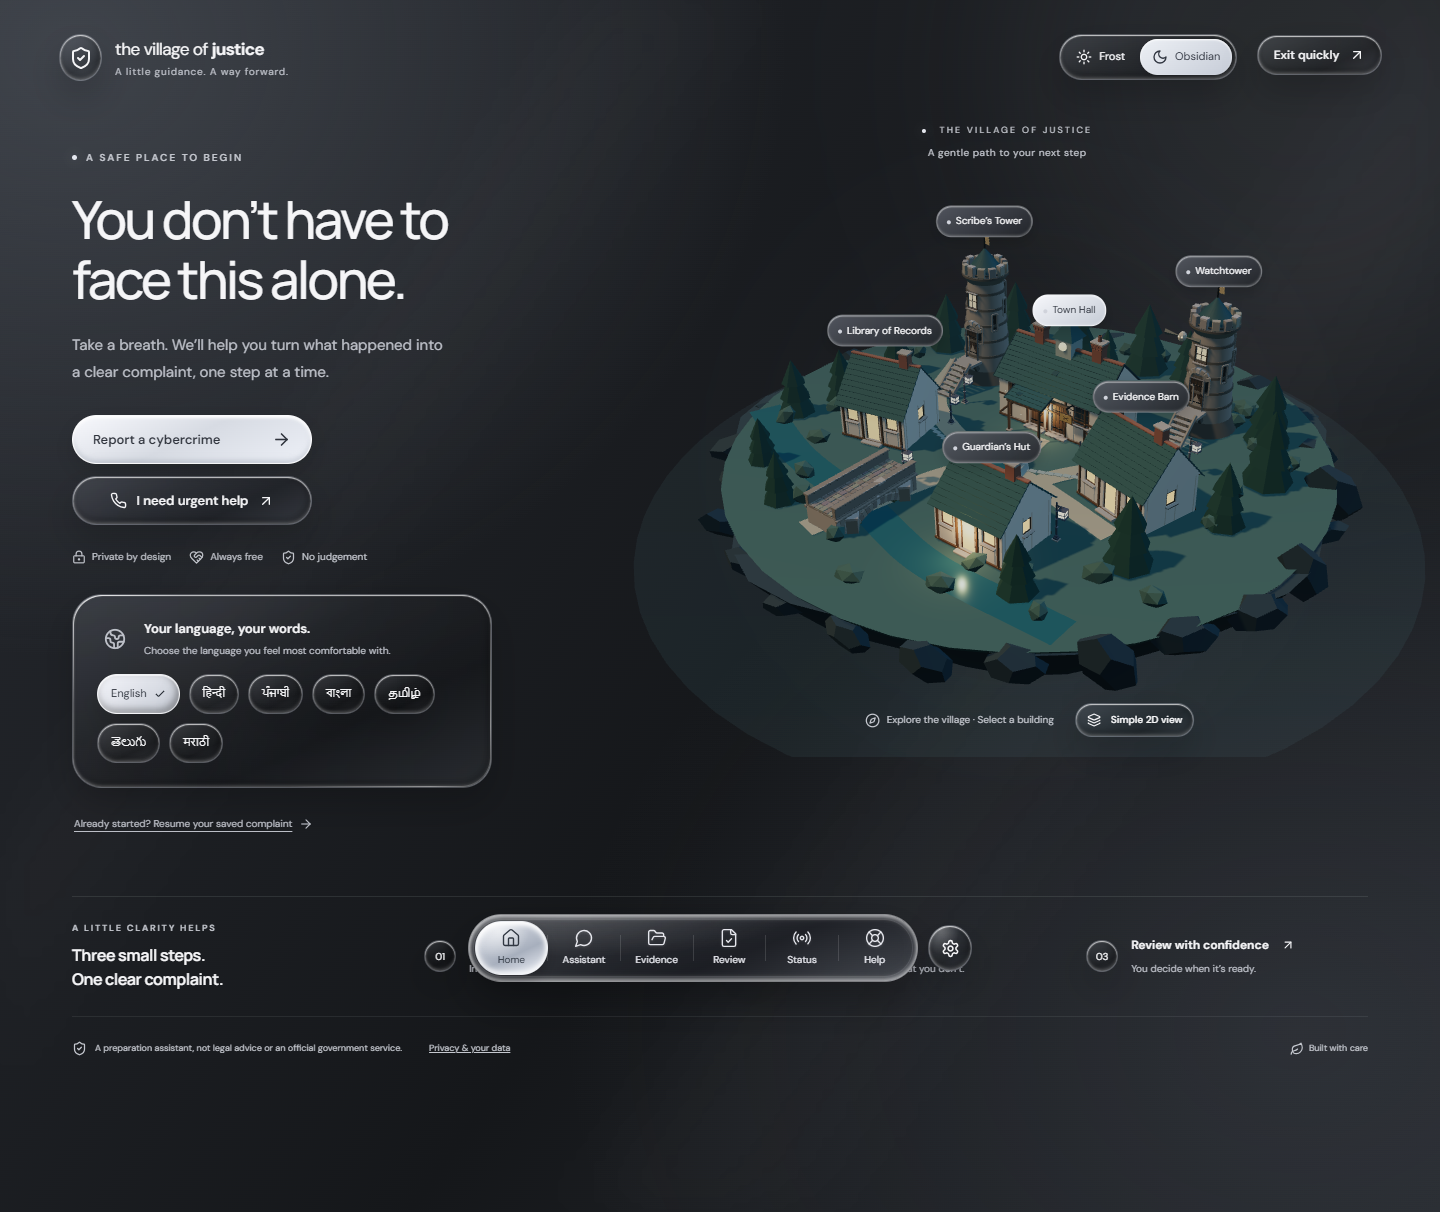
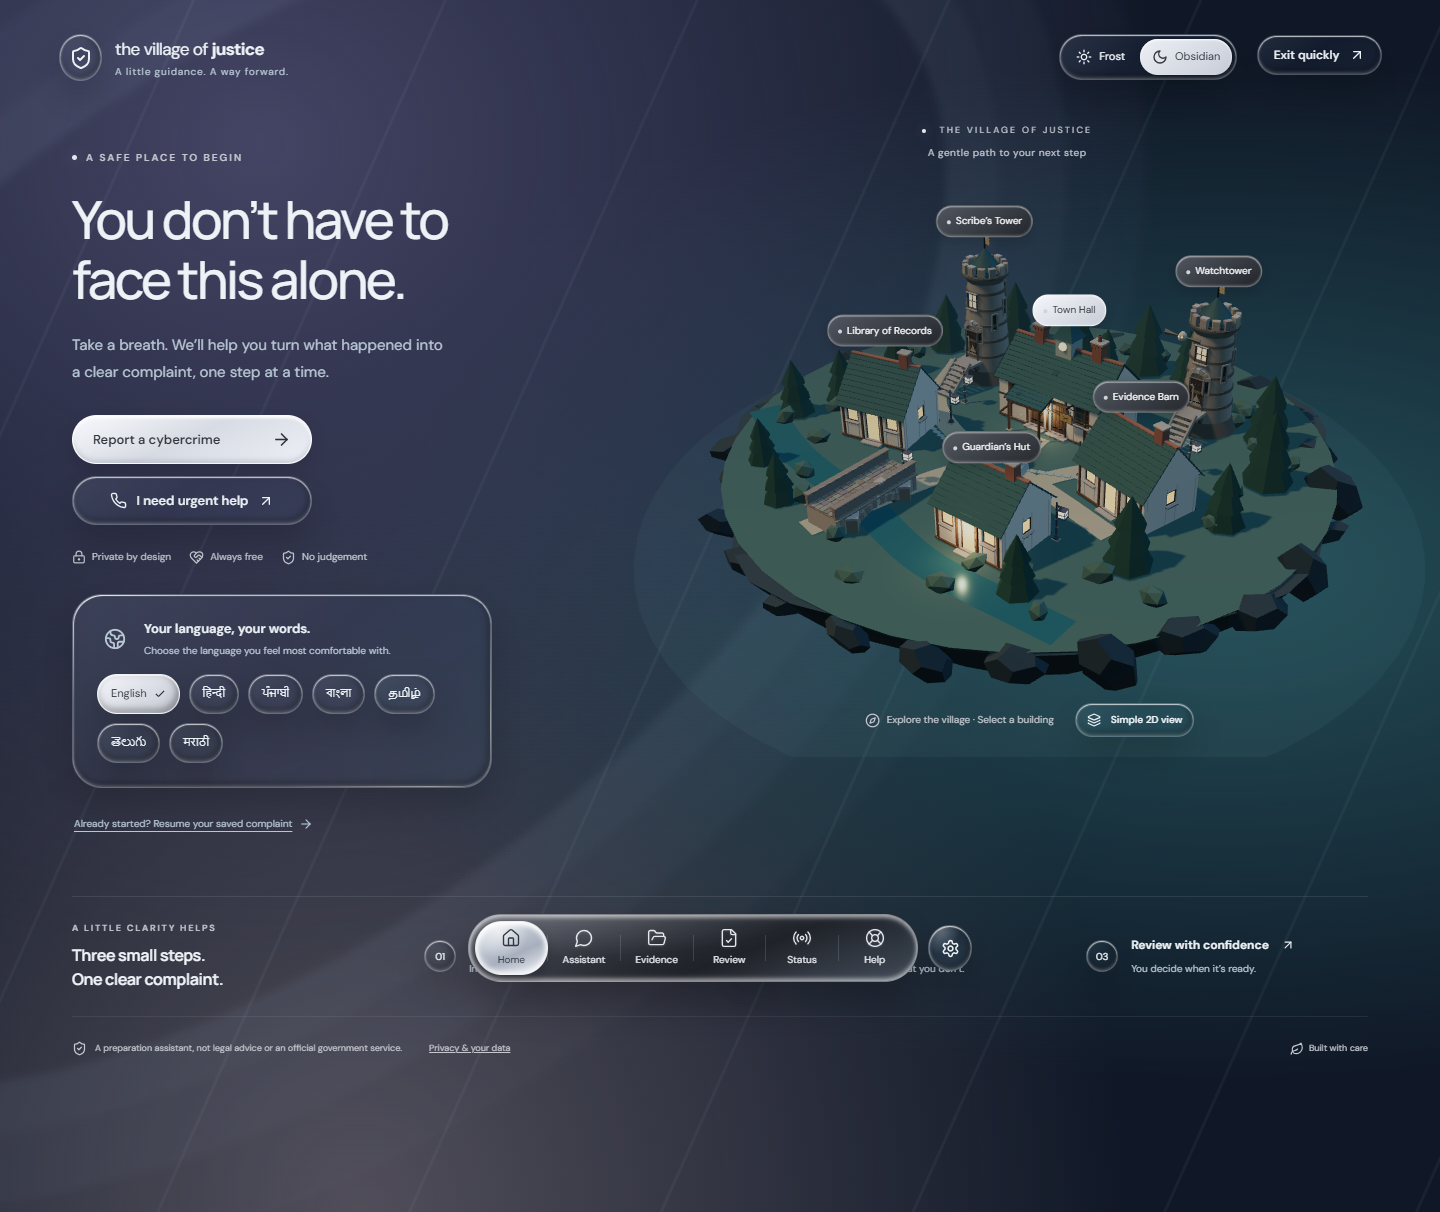
style: add smooth local themes and pointer glass lens

diff --git a/src/lens-world.css b/src/lens-world.css
@@ -1,0 +1,34 @@
+/* Registered colors interpolate the gradient itself, not just foreground text. */
+@property --world-base{syntax:'<color>';inherits:true;initial-value:#101827}
+@property --world-teal{syntax:'<color>';inherits:true;initial-value:#234f58}
+@property --world-indigo{syntax:'<color>';inherits:true;initial-value:#444464}
+@property --world-sand{syntax:'<color>';inherits:true;initial-value:#514e5a}
+@property --world-line{syntax:'<color>';inherits:true;initial-value:#a4c5d514}
+:root{--world-base:#101827;--world-teal:#234f58;--world-indigo:#444464;--world-sand:#514e5a;--world-line:#a4c5d514;--lens-tint:#cbe6f32b;--lens-edge:#c6e8fa70;--text:#edf2f6;--muted:#b8c8d5;--panel:rgba(21,33,48,.94);--scrim:rgba(17,28,42,.96);--surface:linear-gradient(145deg,#bed7e81a,#a2bfd306 45%,#7795af13);transition:--world-base .85s ease,--world-teal .85s ease,--world-indigo .85s ease,--world-sand .85s ease,--world-line .85s ease}
+:root[data-theme=frost]{--world-base:#a1b4c3;--world-teal:#84a9ae;--world-indigo:#979bb8;--world-sand:#b7afa7;--world-line:#334e6e18;--text:#1e2d40;--muted:#34475c;--panel:rgba(171,193,207,.96);--scrim:rgba(183,202,214,.97);--surface:linear-gradient(145deg,#d6e8f630,#b3cbdb0d 45%,#95adca20);--lens-tint:#e0f1ff35;--lens-edge:#deefffa6;--border:#d8e8f16e;--edge-light:#e8f4ffad;--edge-soft:#deefff60;--glass-shadow:inset 0 1px 2px #e8f4ffad,inset 1px 0 2px #e3efff70,inset 0 -1px 3px #d1e7f580,0 12px 30px #34485f20}
+.app,:root[data-theme=frost] .app{background:radial-gradient(ellipse at 18% 12%,var(--world-indigo),transparent 54%),radial-gradient(ellipse at 85% 47%,var(--world-teal),transparent 56%),radial-gradient(ellipse at 25% 100%,var(--world-sand),transparent 50%),var(--world-base);color:var(--text)}
+.app:before,:root[data-theme=frost] .app:before{position:absolute;inset:-20%;z-index:-1;background:repeating-linear-gradient(122deg,transparent 0 115px,var(--world-line) 116px 118px,transparent 119px 230px);filter:none;transform:rotate(-8deg);opacity:.7}
+.app:after{content:'';position:absolute;pointer-events:none;z-index:-1;width:110vw;height:58vw;top:3vh;left:-40vw;border:55px solid var(--world-line);border-radius:50%;transform:rotate(-38deg);box-shadow:0 0 0 70px #9bb8d408,0 0 0 150px #9bb8d406;filter:blur(4px)}
+.ambient-one,.ambient-two{display:none}
+.glass,.button,.chip,.brand-mark,.dock>button,.appearance-picker button,.theme-switch button,.home-content,.eyebrow,.trust-row span,.scene-heading,.scene-subtitle,.scene-caption,.footer-note,.footer-note button{transition:color .65s ease,background-color .65s ease,border-color .65s ease,box-shadow .65s ease,transform .35s var(--spring)}
+.glass:is(.button,.card,.chip,.dock,.chat-bubble){position:relative;isolation:isolate;overflow:hidden}
+.glass.quick-exit{position:absolute}
+.glass:is(.button,.card,.chip,.dock,.chat-bubble):after{content:'';position:absolute;z-index:-1;pointer-events:none;width:var(--lens-size,150px);height:var(--lens-size,150px);left:calc(var(--lens-x,50%) - var(--lens-size,150px)/2);top:calc(var(--lens-y,50%) - var(--lens-size,150px)/2);inset-inline-end:auto;bottom:auto;border:1px solid var(--lens-edge);border-radius:50%;background:radial-gradient(circle at 30% 20%,var(--lens-tint),transparent 52%),linear-gradient(145deg,#c9e9ff12,transparent 50%,#9bceff1a);box-shadow:inset 2px 3px 7px #d7edff30,inset -3px -4px 9px #7c9ec51a,0 0 22px #c7e4ff13;backdrop-filter:blur(1.5px) saturate(150%) brightness(1.12);-webkit-backdrop-filter:blur(1.5px) saturate(150%) brightness(1.12);opacity:0;transform:scale(.92);transition:opacity .25s ease,transform .35s ease}
+.glass.button,.glass.chip{--lens-size:78px}
+.glass.dock{--lens-size:105px}
+.glass[data-lens=true]:after,.glass:focus-visible:after{opacity:1;transform:scale(1)}
+.glass.button:hover:after{transform:scale(1)}
+.glass:focus-visible{--lens-x:50%;--lens-y:50%}
+.glass.button:not(.primary):hover,.glass.chip:hover,:root[data-theme=frost] .glass.button:not(.primary):hover,:root[data-theme=frost] .glass.chip:hover{background:var(--surface);color:var(--text);border-color:var(--lens-edge)}
+:root[data-theme=frost] .dock{background:linear-gradient(145deg,#bad3e255,#8aabc03d 60%,#c1d6e54d);border-color:#d5e9f59c;box-shadow:inset 0 2px 4px #e0f2ffc9,inset 1px 0 4px #deefff80,inset 0 -2px 4px #d0e5ef99,0 14px 28px #354d6530}
+:root[data-theme=frost] .dock-thumb{background:linear-gradient(145deg,#d2e5f0c9,#9db9cec9);box-shadow:inset 0 2px 3px #e5f5ffcc,inset 0 -2px 4px #cee3f29c,0 5px 10px #34516c30}
+:root[data-theme=frost] .primary,:root[data-theme=frost] .chip[aria-pressed=true],:root[data-theme=frost] .appearance-picker button[aria-pressed=true],:root[data-theme=frost] .theme-switch button[aria-pressed=true]{background:linear-gradient(145deg,#c7dce9,#a9c2d4);color:#22364c;border-color:#d9eaf6b0;box-shadow:inset 0 1px 3px #dfedfa,0 5px 15px #354d6520}
+:root[data-theme=frost] .eyebrow,:root[data-theme=frost] .trust-row span,:root[data-theme=frost] .footer-note,:root[data-theme=frost] .footer-note button,:root[data-theme=frost] .footer-leaf,:root[data-theme=frost] .scene-heading,:root[data-theme=frost] .scene-subtitle,:root[data-theme=frost] .scene-caption,:root[data-theme=frost] .language-icon,:root[data-theme=frost] .home-actions .secondary,:root[data-theme=frost] .dock>button{color:#34475c}
+/* The backdrop and text-heavy surfaces stay readable when optical effects are off. */
+@media(prefers-reduced-transparency:reduce){.glass:after{display:none}.app:before,.app:after{display:none}}
+@media(prefers-reduced-motion:reduce){:root{transition:none}.glass:after{display:none}}
+:root[data-motion=true]{transition:none}:root[data-motion=true] .glass:after{display:none}
+:root[data-contrast=true] .app{background:#111}:root[data-contrast=true] .app:before,:root[data-contrast=true] .app:after,:root[data-contrast=true] .glass:after{display:none}
+:root[data-contrast=true] .eyebrow,:root[data-contrast=true] .trust-row span,:root[data-contrast=true] .dock>button{color:#fff}
+:root[data-contrast=true] .dock>button[aria-selected=true]{color:#222}
+@media print{.app:after{display:none}}

diff --git a/src/LensEffects.tsx b/src/LensEffects.tsx
@@ -1,0 +1,22 @@
+import {useEffect} from 'react';
+
+/** Pointer coordinates stay outside React state so the scene and forms do not rerender. */
+export default function LensEffects(){
+ useEffect(()=>{
+  let frame=0;
+  let hovered:HTMLElement[]=[];
+  let pointer:{x:number;y:number;target:Element}|null=null;
+  const clear=()=>{hovered.forEach(el=>el.removeAttribute('data-lens'));hovered=[];};
+  const update=()=>{
+   frame=0;if(!pointer)return;
+   const next:HTMLElement[]=[];let node:Element|null=pointer.target;
+   while(node){if(node instanceof HTMLElement&&node.matches('.glass.button,.glass.card,.glass.chip,.glass.dock,.glass.chat-bubble'))next.push(node);node=node.parentElement;}
+   hovered.filter(el=>!next.includes(el)).forEach(el=>el.removeAttribute('data-lens'));
+   next.forEach(el=>{const r=el.getBoundingClientRect();el.style.setProperty('--lens-x',`${pointer!.x-r.left}px`);el.style.setProperty('--lens-y',`${pointer!.y-r.top}px`);el.dataset.lens='true';});hovered=next;
+  };
+  const move=(event:PointerEvent)=>{if(event.pointerType==='touch')return;pointer={x:event.clientX,y:event.clientY,target:event.target as Element};if(!frame)frame=requestAnimationFrame(update);};
+  document.addEventListener('pointermove',move,{passive:true});document.addEventListener('pointerleave',clear);window.addEventListener('blur',clear);
+  return()=>{cancelAnimationFrame(frame);clear();document.removeEventListener('pointermove',move);document.removeEventListener('pointerleave',clear);window.removeEventListener('blur',clear);};
+ },[]);
+ return null;
+}

diff --git a/src/main.tsx b/src/main.tsx
@@ -4,4 +4,6 @@ import './i18n';
 import App from './App';
 import './styles.css';
 import './liquid-glass.css';
-createRoot(document.getElementById('root')!).render(<React.StrictMode><App/></React.StrictMode>);
+import './lens-world.css';
+import LensEffects from './LensEffects';
+createRoot(document.getElementById('root')!).render(<React.StrictMode><LensEffects/><App/></React.StrictMode>);

diff --git a/AGENTS.md b/AGENTS.md
@@ -6,3 +6,4 @@
 - Sites hosting has its own source synchronization workflow. That does not replace pushing changes to the user's GitHub repository.
 - Use the user's GitHub commit identity: `Gautam Kumar kushwaha <128482757+Gautam369-web@users.noreply.github.com>`. Do not add Codex author or co-author attribution.
 - The user removed `.openai/`. Keep it out of this checkout and GitHub; do not recreate it automatically for deployment. The existing hosted site is `appgprj_6ae357e5895081918d17b48c4c039de8`; do not create a duplicate site because its local manifest is absent.
+- Run and preview locally only. Do not publish further site changes unless the user explicitly requests publication. Continue pushing completed source changes to the designated GitHub repository.
